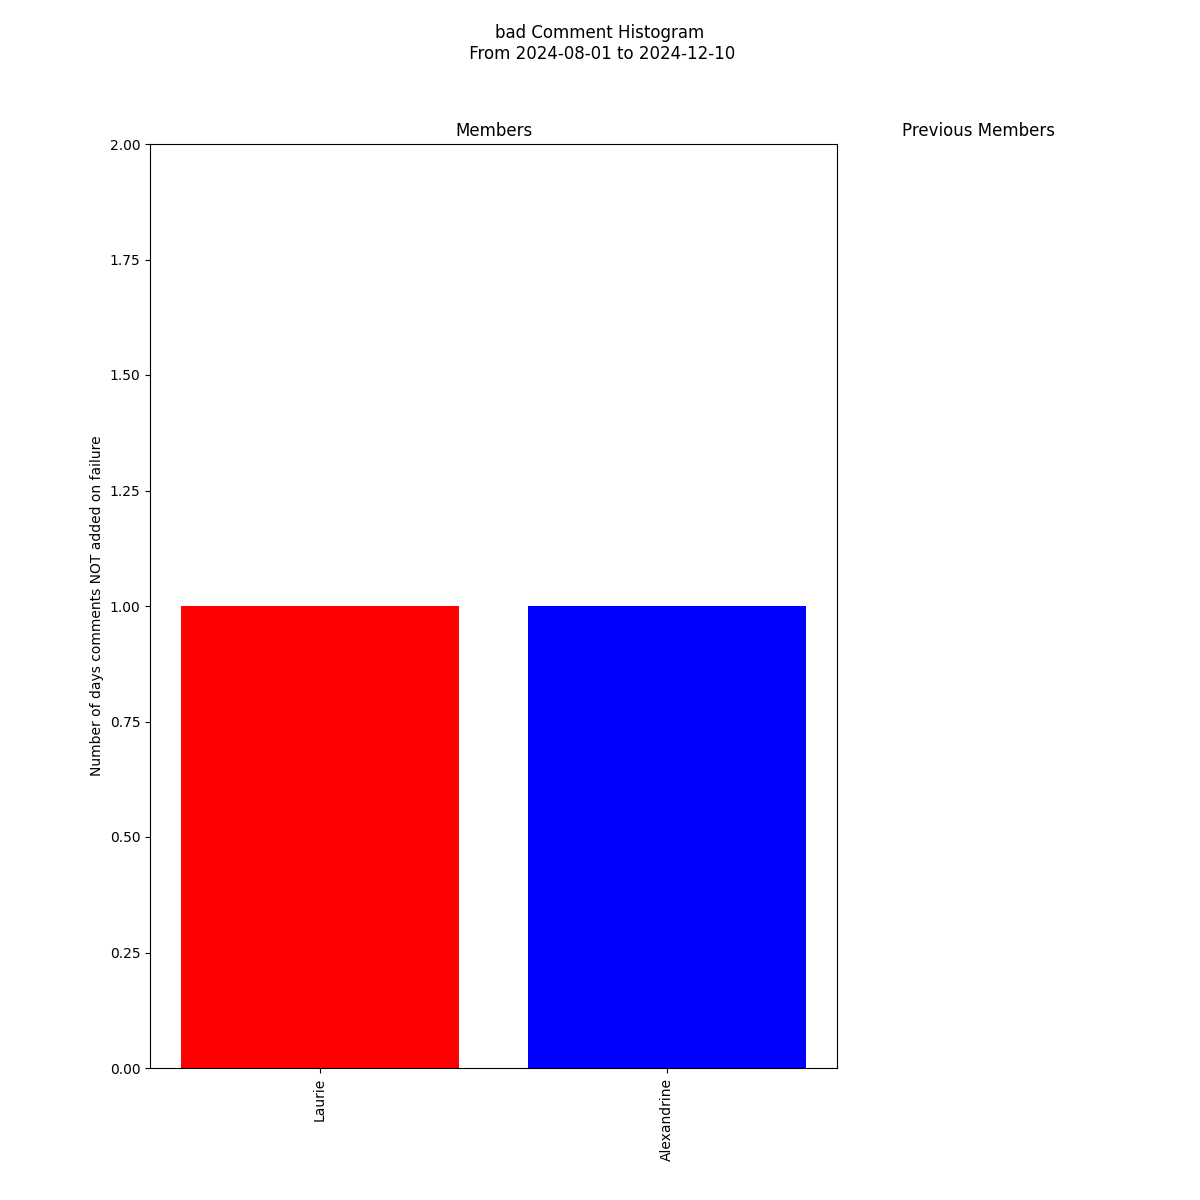
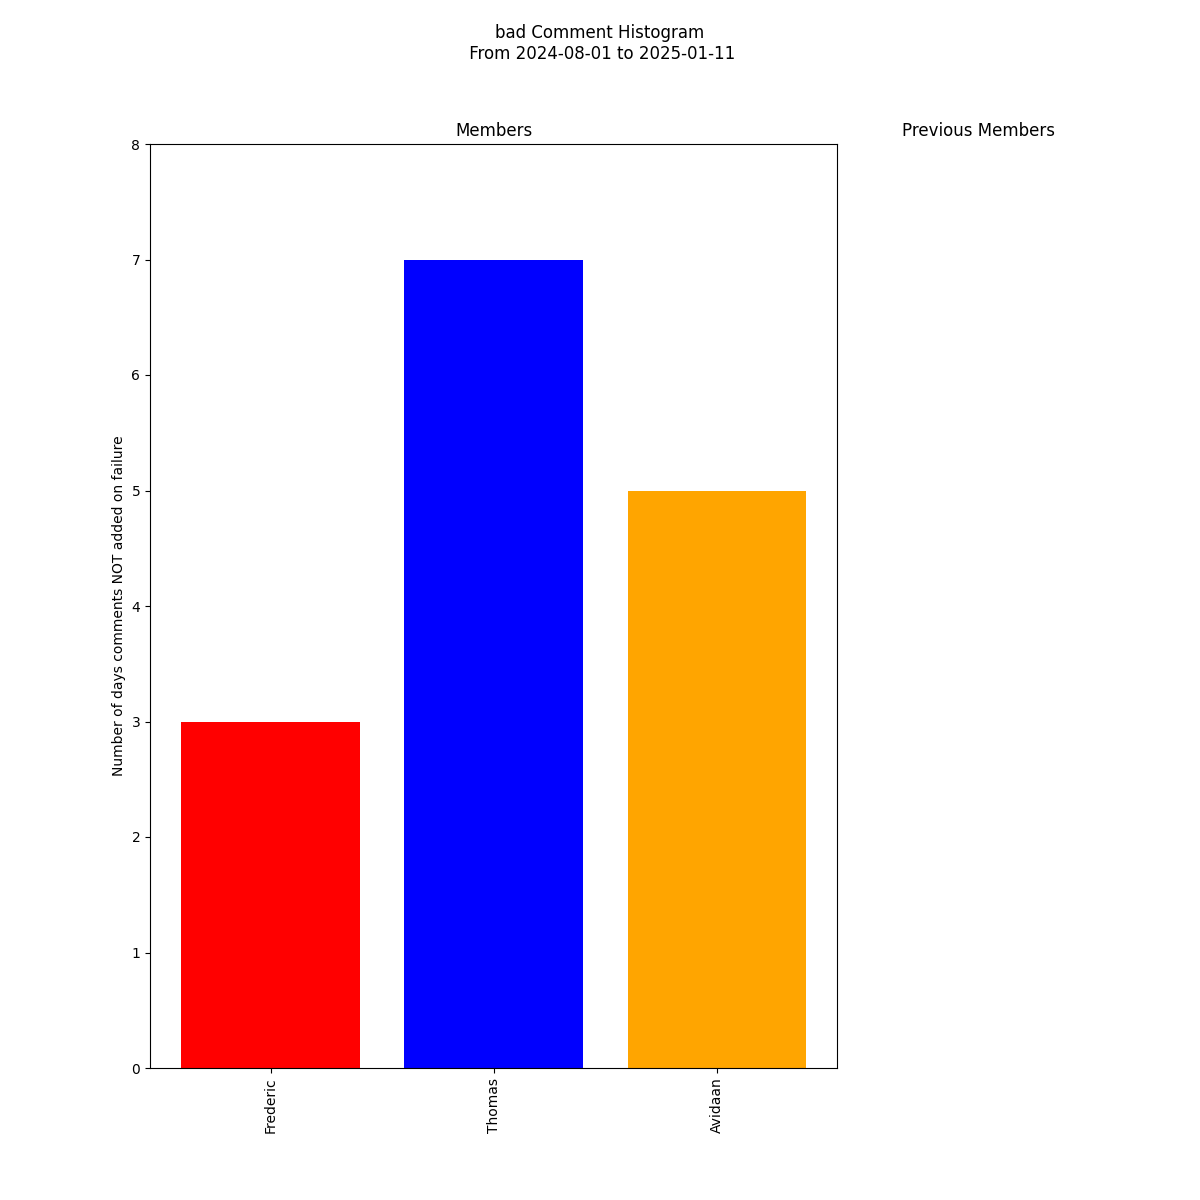
[APERO CHECKS] Add FP temperature exterior test

diff --git a/nirps/apero_check/apero_checks/raw_tests/eng_test.py b/nirps/apero_check/apero_checks/raw_tests/eng_test.py
@@ -376,15 +376,19 @@ ETESTS['fptemp'].pmsg = ('RMS FP temperature interior '
 ETESTS['fptemp'].fmsg = ('RMS FP temperature interior '
                          '{rms:.2E} K >= {limit:.2E} K)')
 # -----------------------------------------------------------------------------
-ETESTS['fptemp_ext'] = EngTest('test_fp_temperature_ext')
-ETESTS['fptemp_ext'].data = dict(x='FPtemperature_exterior',
-                                 low=23.498, high=24.502)
-ETESTS['fptemp_ext'].calc = dict()
-ETESTS['fptemp_ext'].func = lambda **k: (k['x'] > k['low']) & (k['x'] < k['high'])
-ETESTS['fptemp_ext'].pmsg = ('Fabry-Perot lakeshore temp exterior within '
-                             'limits={x:.3f} K ({low}-{high} K)')
-ETESTS['fptemp_ext'].fmsg = ('Fabry-Perot lakeshore temp exterior outside '
-                             'limits={x:.3f} K ({low} - {high} K)')
+# ETESTS['fptemp_ext'] = EngTest('test_fp_temperature_ext')
+# ETESTS['fptemp_ext'].data = dict(x='FPtemperature_exterior',
+#                                  low=23.498, high=24.502)
+# ETESTS['fptemp_ext'].calc = dict(xmin=lambda **k: np.nanmin(k['x']),
+#                                  xmax=lambda **k: np.nanmax(k['x']))
+# ETESTS['fptemp_ext'].func = lambda **k: ((k['xmin'] > k['low'])
+#                                          & (k['xmax'] < k['high']))
+# ETESTS['fptemp_ext'].pmsg = ('Fabry-Perot lakeshore temp exterior within '
+#                              'measured={xmin:.3f}-{xmax:.3f} K '
+#                              '(limits={low}-{high} K)')
+# ETESTS['fptemp_ext'].fmsg = ('Fabry-Perot lakeshore temp exterior outside '
+#                              'measured={xmin:.3f}-{xmax:.3f} K '
+#                              '(limits={low} - {high} K)')
 # -----------------------------------------------------------------------------
 ETESTS['fptset'] = EngTest('test_fp_temperature_setpoint')
 ETESTS['fptset'].data = dict(x='FPtemperature_interior',
